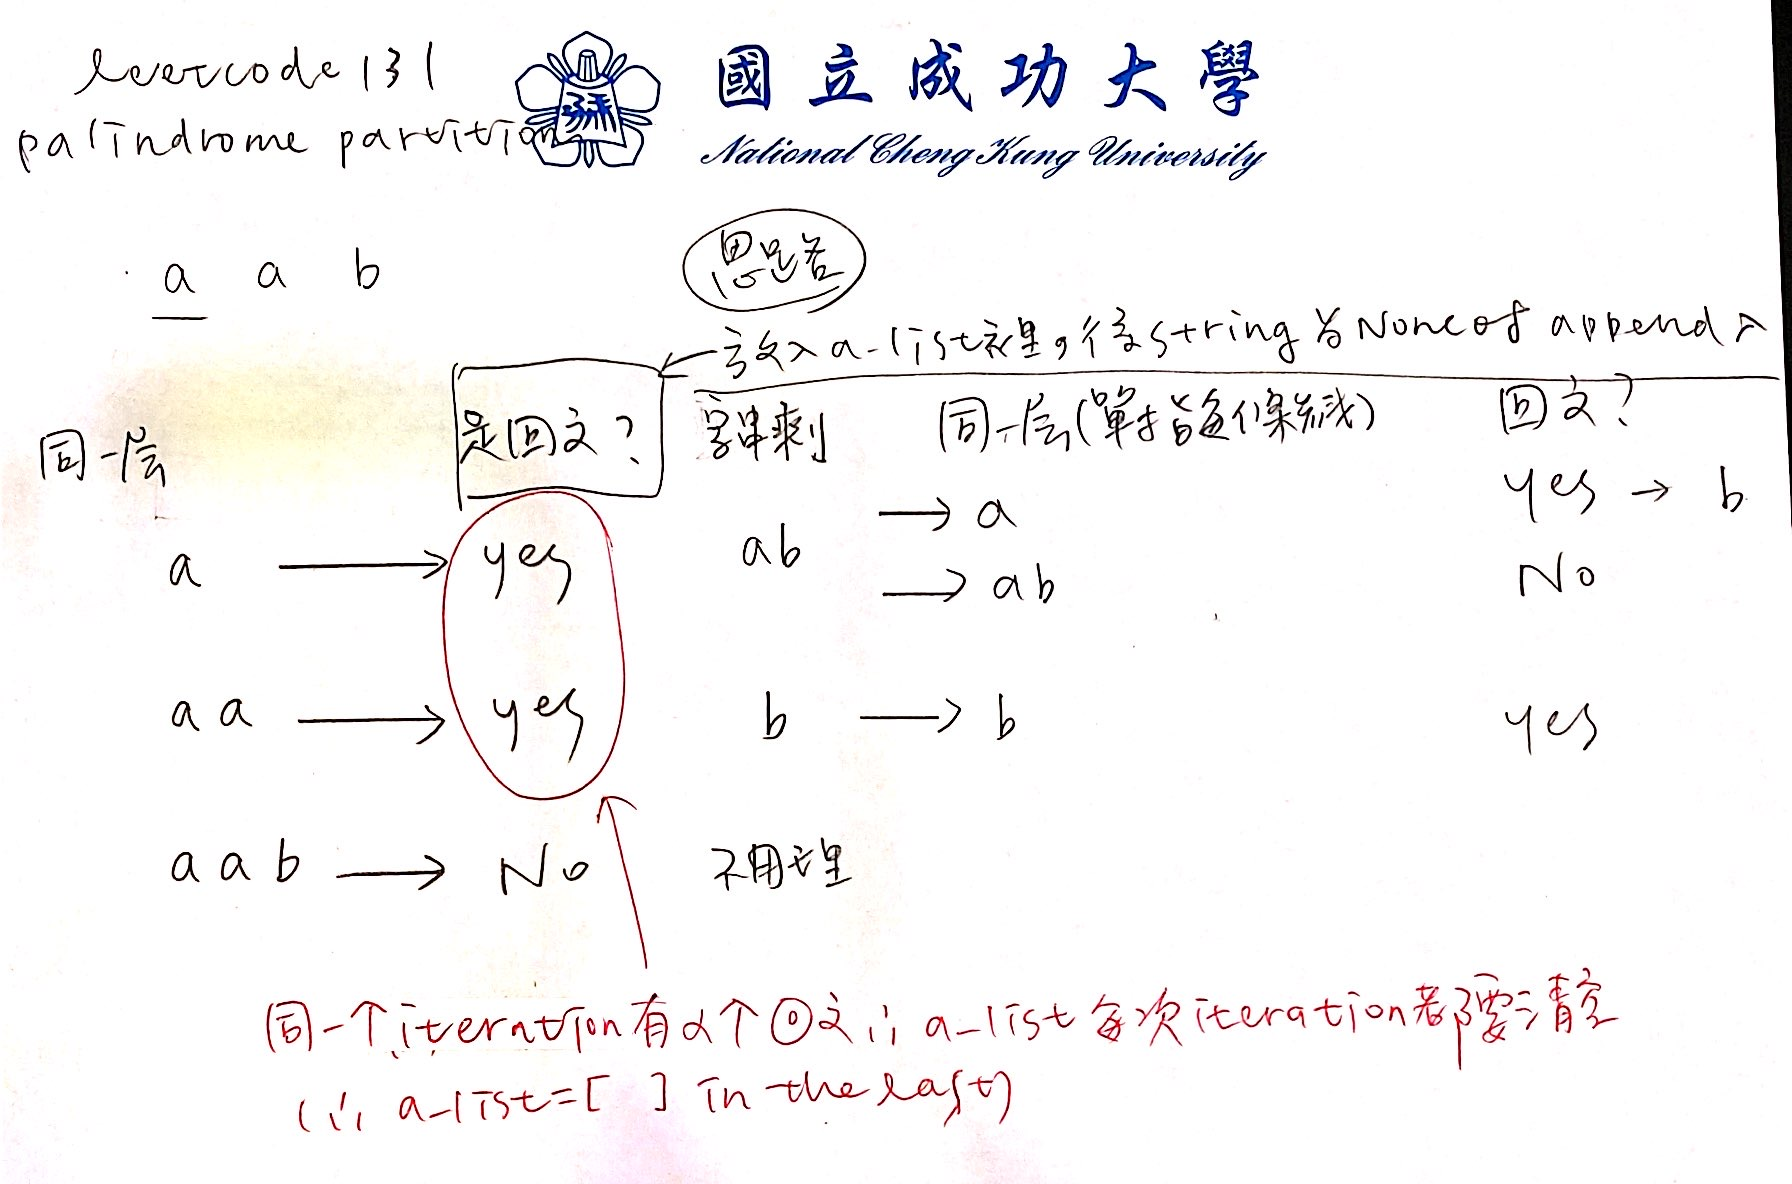
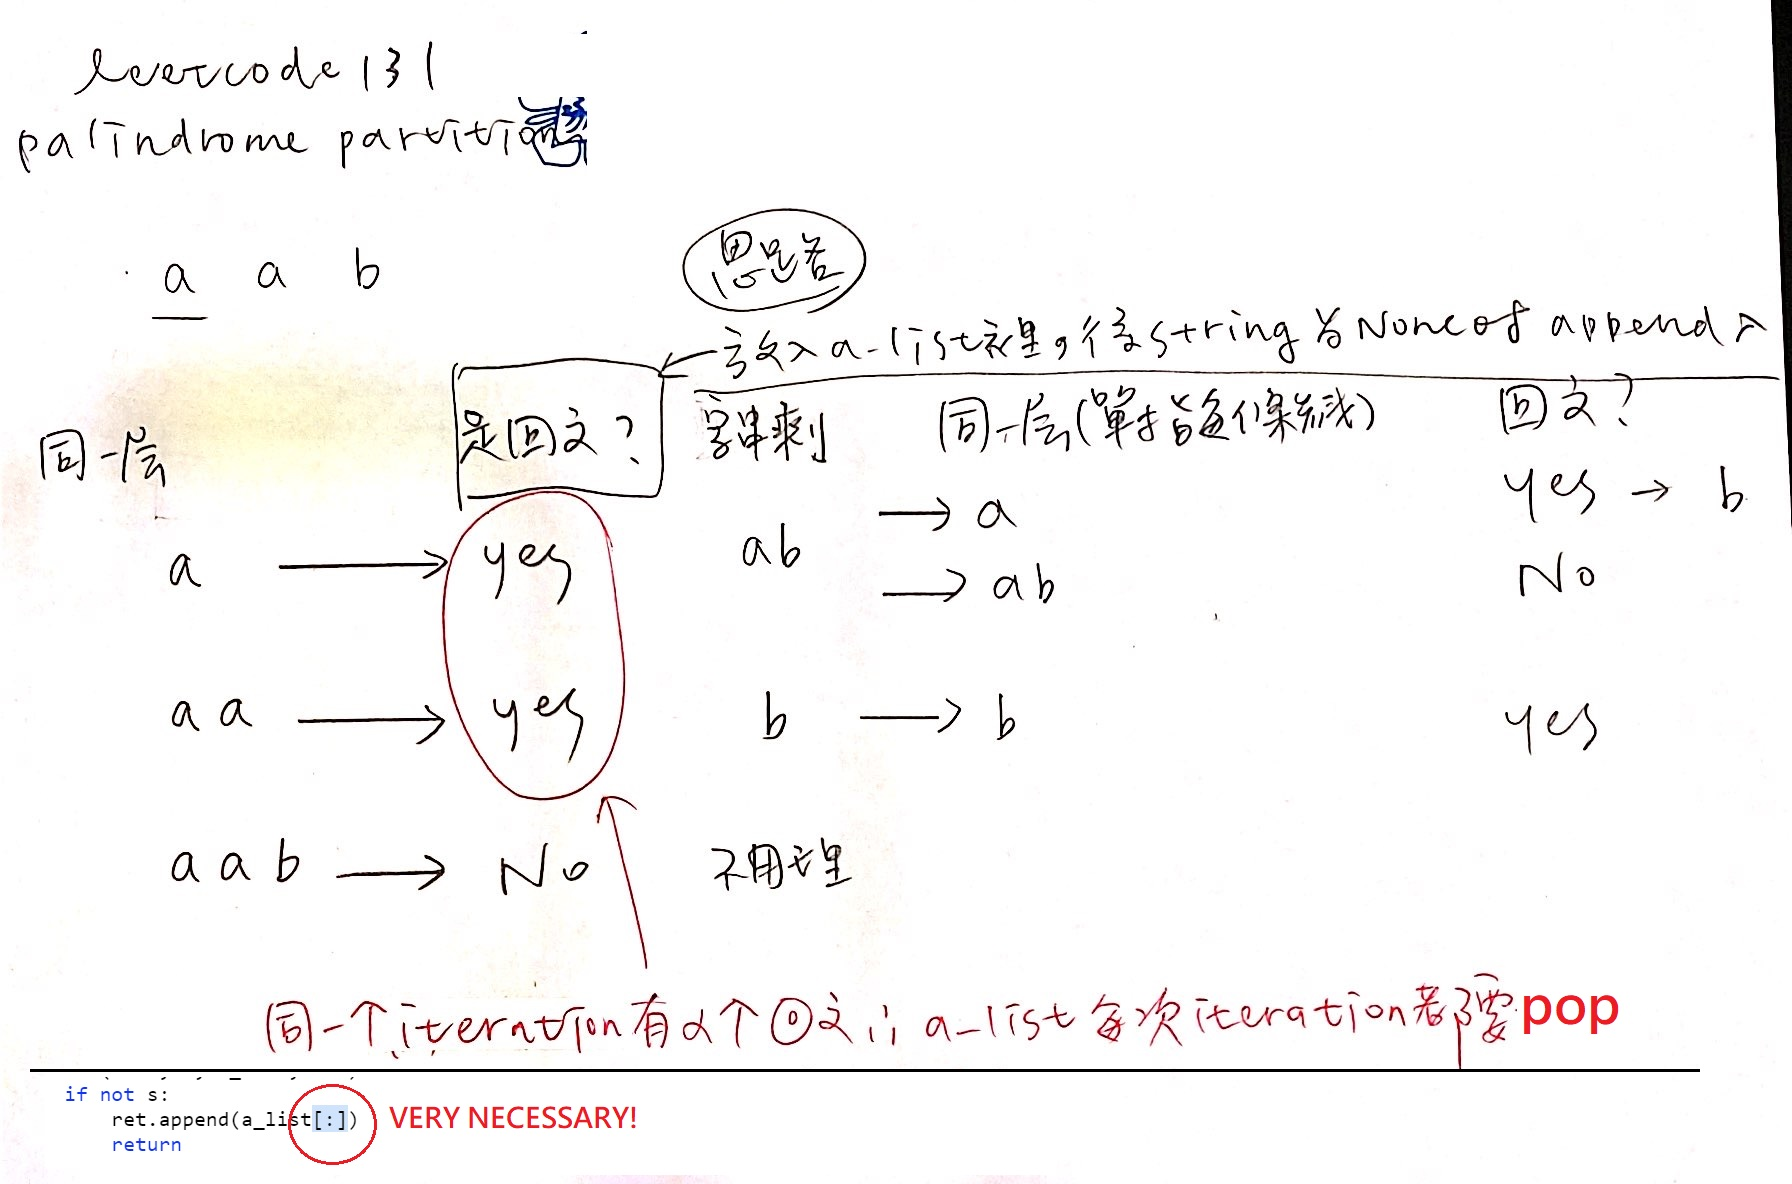
Recursion problem solved

diff --git a/Palindrome Partitioning/main2.py b/Palindrome Partitioning/main2.py
@@ -1,0 +1,21 @@
+class Solution(object):
+    def DFS(self, s, a_list, ret):
+        if not s:
+            ret.append(a_list[:])
+            return
+        
+        i = 1
+        while i < len(s) + 1:
+            if s[:i][::-1] == s[:i]: # what we get now is palindrome
+                a_list.append(s[:i])
+                self.DFS(s[i:], a_list, ret)           
+                a_list.pop()
+            i += 1
+            
+    def partition(self, s):
+        ret = []
+        self.DFS(s, [], ret)
+        return ret
+
+            
+            

diff --git a/Palindrome Partitioning/readme.md b/Palindrome Partitioning/readme.md
@@ -5,7 +5,7 @@ Given a string s, partition s such that every substring of the partition is a pa
 ## Example:
 
 * Input: "aab"
-* Output:
+* Output:  
 [  
   ["aa","b"],  
   ["a","a","b"]  
@@ -17,3 +17,21 @@ Given a string s, partition s such that every substring of the partition is a pa
 * 思路如下：
 
 ![avatar](./image0.jpeg)
+
+----
+
+* main2.py  
+* 終於發現問題所在，也學習到 [:] 的意涵
+* 在 return a_list 後面加上 [:] 是非常必要的事情(詳見上面的圖片)
+* 此為 pass by reference 和 pass by value 的 issue
+* slicing 詳細用法請見此![連接](https://stackoverflow.com/questions/509211/understanding-slice-notation)  
+* 實際做實驗發現:  
+	![avatar](./image1.jpeg)  
+	每次使用 s 的 address 都是相同的  
+	而使用 s[:] 每次都會不相同，原因是它只是個 copy
+* 而使用 copy 可以確定一 recursive 的結果不會隨著外部變動而改變
+* 簡言之，可以把 main1.py 中所寫的 a_list 當成只有一份，所以 a_list 在改動的時候，連帶也會影響已經 append 入 ret 的值
+* 於是我又再做了這個實驗:
+	![avatar](./image2.jpeg)  
+	發現 append 進去的確實會因為原來的東西改變而使得被塞入的也一起改變，仔細觀察實驗結果，b 及 a[4] 的 address 都是相同的  
+
